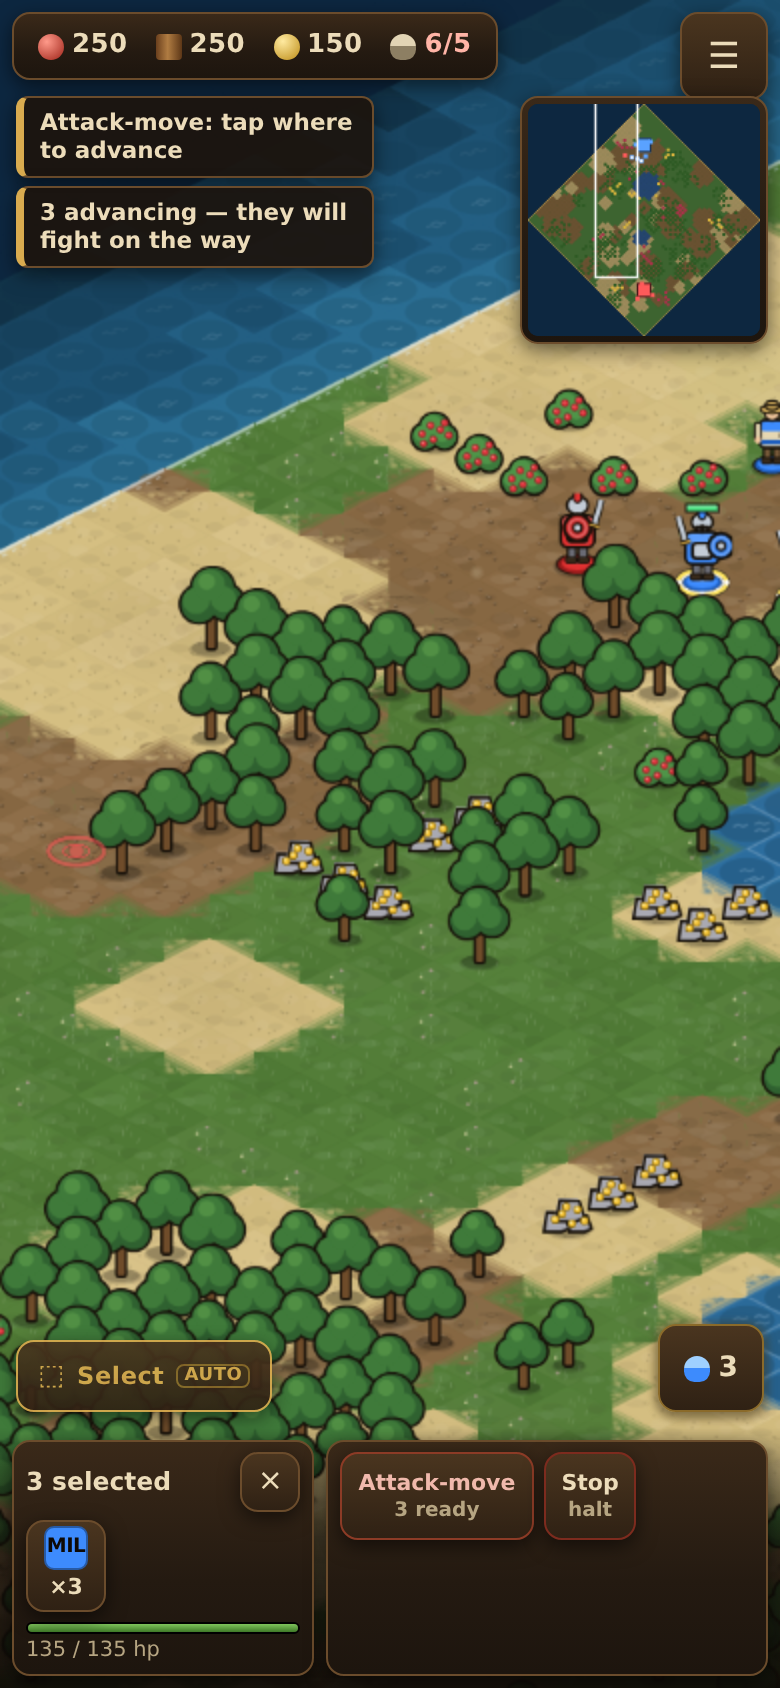
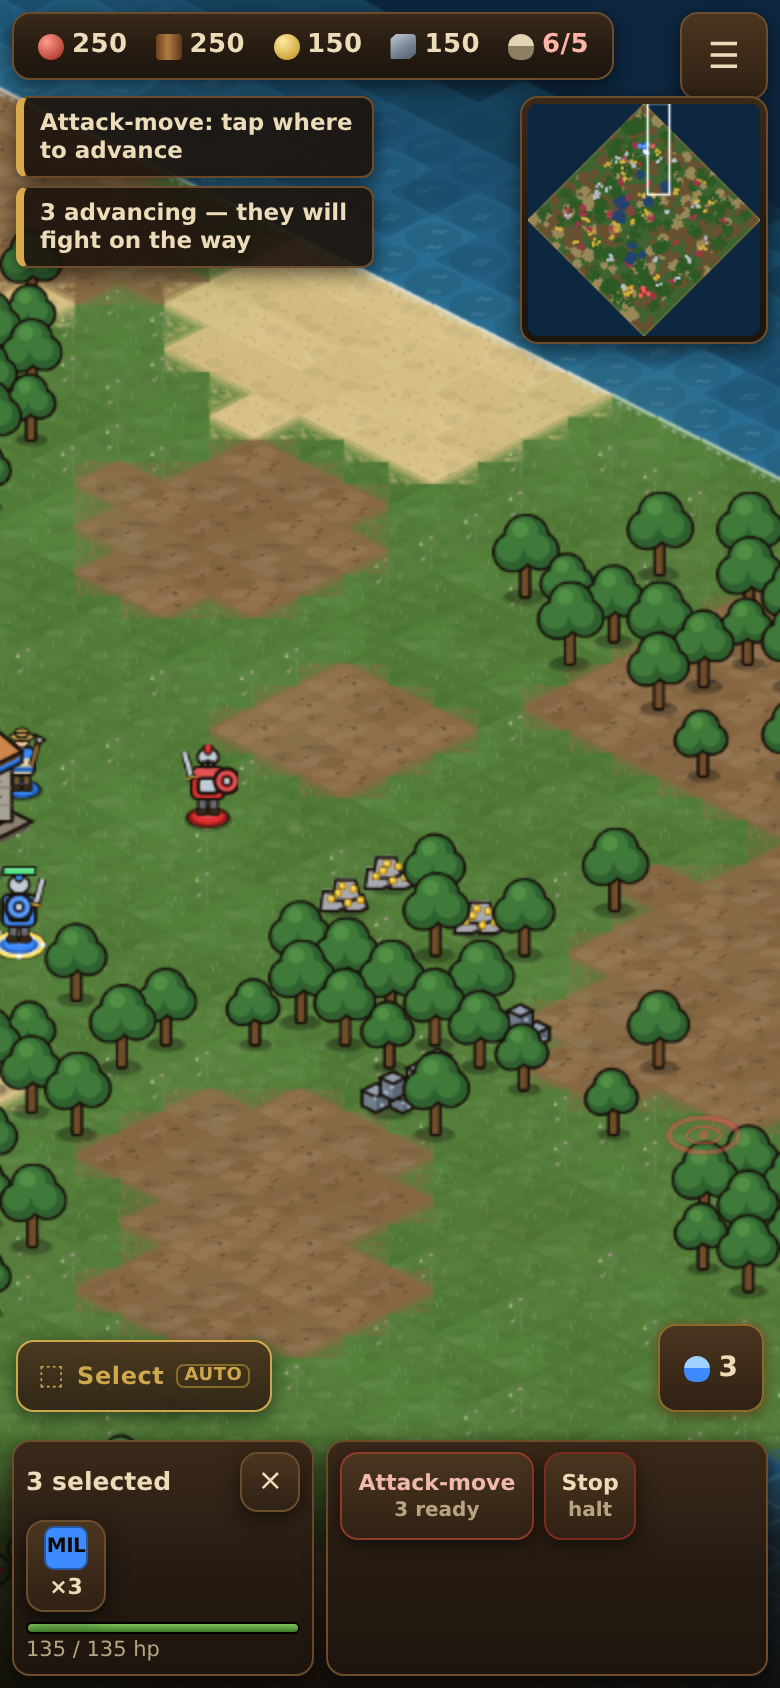
Finish the economy foundation: tests and enemy AI for the new pacing
Brings the test suite and the enemy AI in line with the stone economy, the
96x96 map and the slower gather rate committed in the checkpoint before it.

- Test assertions repinned to the new pacing rather than the pacing being
  reverted to satisfy them
- Enemy AI builds lumber and mining camps when its round trips get long,
  and accounts for stone in its resource bookkeeping

npm test: 5 files, all green. Browser smoke test: 11/11, no console errors.

Claude-Session: https://claude.ai/code/session_01UneGN3iZX7WqeMmk2WH8D2

diff --git a/src/systems/enemyAI.js b/src/systems/enemyAI.js
@@ -596,11 +596,27 @@ class EnemyAI {
     const noTC = !buildings.some((b) => b.type === 'towncenter');
     if (noTC && villagers > 0) {
       if (this.afford(BUILDING_STATS.towncenter.cost)) return 'towncenter';
-      // Cannot afford one, and with no drop-off at all nothing can be banked —
-      // that is a dead end. A Mill is cheaper and restores a food drop-off, so
-      // the economy can restart and pay for the Town Center later.
-      const hasDropoff = buildings.some((b) => b.complete && b.dropoff);
-      if (!hasDropoff && anyOf('mill') === 0 && this.hasNodeFor(RES.FOOD) &&
+
+      // Cannot afford one. What matters now is not "have a drop-off" but "have a
+      // drop-off for the resource the Town Center costs" — and a Town Center is
+      // 275 wood. With only a Mill standing, every villager sent to the trees
+      // fills its pack, finds nowhere to put it, and stands there: the AI can
+      // hold a thousand food and still never rebuild, which is exactly what a
+      // decapitated base did before the Lumber Camp existed.
+      //
+      // So: a Lumber Camp first, at 100 wood — a third of a Town Center, and the
+      // only building that turns standing timber back into a bank balance. A
+      // Mill second, so food can be banked and villagers replaced. Both are
+      // strictly cheaper than the thing being saved for, so neither delays it.
+      const takes = (res) =>
+        buildings.some((b) => b.complete && b.dropoff && b.dropoff.includes(res));
+
+      if (!takes(RES.WOOD) && anyOf('lumbercamp') === 0 && this.hasNodeFor(RES.WOOD) &&
+          this.afford(BUILDING_STATS.lumbercamp.cost)) {
+        this.campAnchor = this.campAnchorFor(this.available.wood);
+        return 'lumbercamp';
+      }
+      if (!takes(RES.FOOD) && anyOf('mill') === 0 && this.hasNodeFor(RES.FOOD) &&
           this.afford(BUILDING_STATS.mill.cost)) {
         return 'mill';
       }
